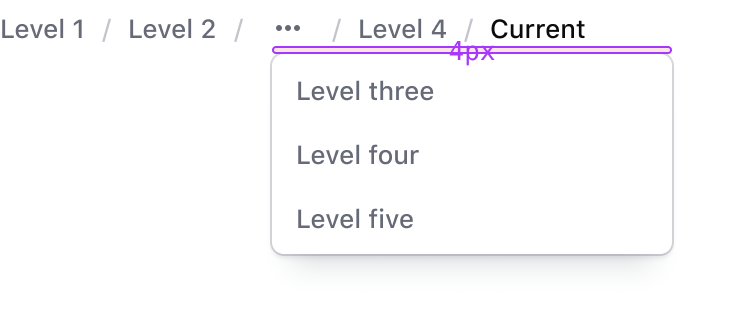
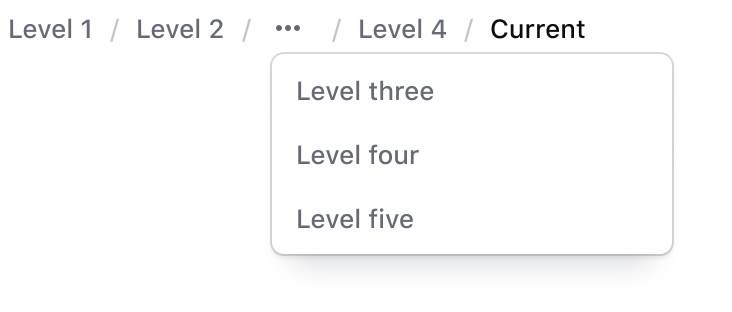
add spacing section in breadcrumbs doc

Changed region(s): [[0.0, 0.0577, 0.3607, 0.1442], [0.3607, 0.1154, 0.9317, 0.2019]]

diff --git a/website/docs/components/breadcrumb/index.md b/website/docs/components/breadcrumb/index.md
@@ -33,6 +33,7 @@ navigation:
 <section data-tab="Specifications">
   @include "partials/specifications/anatomy.md"
   @include "partials/specifications/states.md"
+  @include "partials/specifications/spacing.md"
 </section>
 
 <section data-tab="Accessibility">

diff --git a/website/docs/components/breadcrumb/partials/specifications/spacing.md b/website/docs/components/breadcrumb/partials/specifications/spacing.md
@@ -1,0 +1,5 @@
+## Spacing
+
+The gap between the breadcrumb and dropdown menu when opened is 4px.
+
+![](/assets/components/breadcrumb/breadcrumb-truncated-dropdown-spacing.png)
